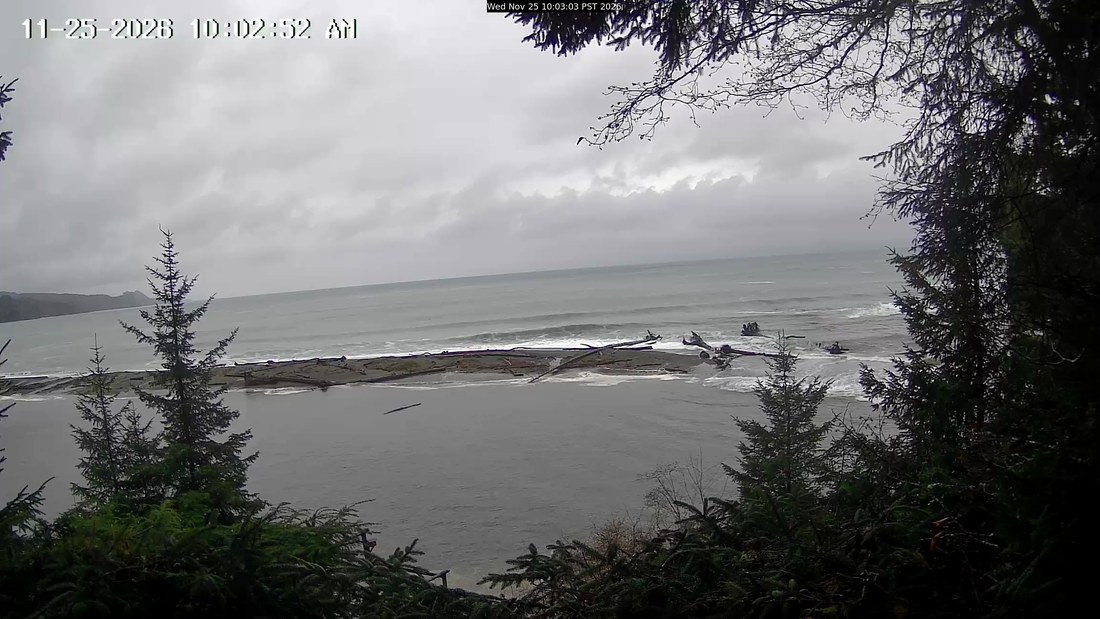
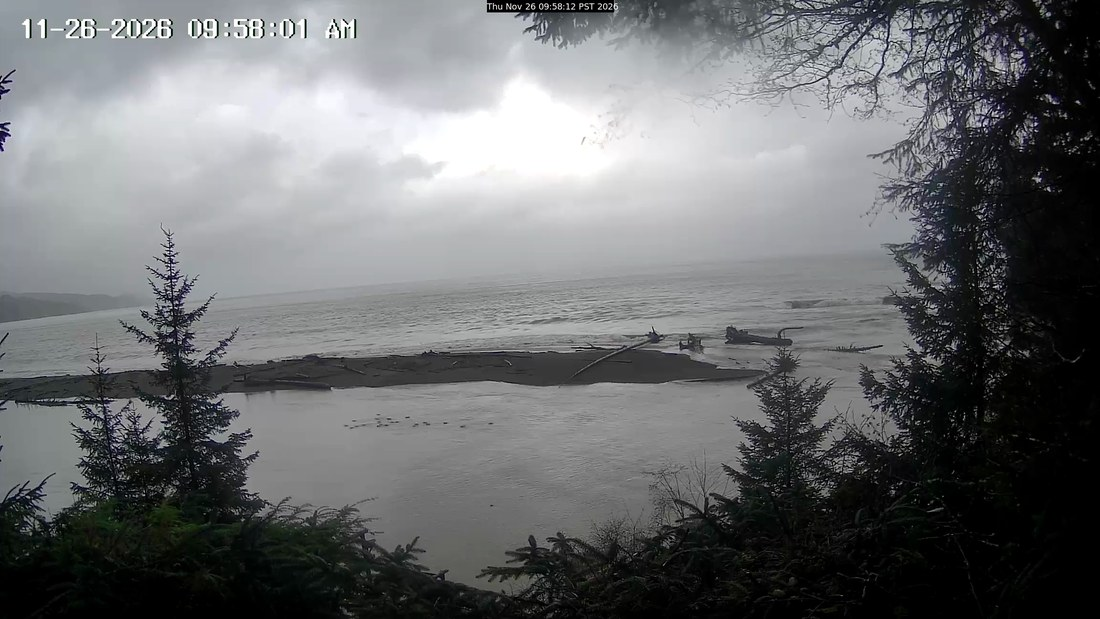
Cam capture 2026-11-26_1000

diff --git a/strait_cam.html b/strait_cam.html
@@ -1,1 +1,1 @@
-<!DOCTYPE html><html><head><meta charset='utf-8'><meta name='viewport' content='width=device-width, initial-scale=1'><title>The Strait cam</title><style>body{font-family:Georgia,serif;max-width:1200px;margin:0 auto;padding:24px}h1{margin:0 0 10px}.intro{color:#666;font-size:14px;margin:0 0 24px}.day-card{margin:0 0 30px}.day-card h3{margin:0 0 10px;font-size:22px}.time{color:#888;font-weight:400}.meta{color:#666;font-size:13px;font-weight:400}.frame-grid{display:grid;grid-template-columns:repeat(3,minmax(0,1fr));gap:10px}.frame-btn{background:#fff;border:1px solid #ddd;padding:0;cursor:pointer}.frame-img{display:block;width:100%;height:auto}.hint{font-size:12px;color:#666;margin-top:6px}.lightbox{position:fixed;inset:0;background:rgba(0,0,0,.92);display:none;align-items:center;justify-content:center;padding:20px;z-index:1000}.lightbox.open{display:flex}.lightbox img{max-width:100%;max-height:100%;object-fit:contain}.lightbox-close{position:absolute;top:14px;right:14px;font-size:28px;line-height:1;border:1px solid #fff;background:rgba(0,0,0,.35);color:#fff;padding:4px 12px;cursor:pointer}</style></head><body><h1>The Strait — cam review</h1><p class='intro'>Three morning frames per day (9/10/11am) from the Sekiu/Hoko cam — each is the most active of its ~5-min burst. Forward-only (no archive before we started). Click a thumbnail to expand.</p><section class='day-card'><h3>2026-11-26 <span class='meta'>Angeles Pt buoy 2.6ft @ 5s · verdict SKIP</span></h3><div class='frame-grid'><figure style='margin:0'><button type='button' class='frame-btn'><img src='cam/2026-11-26_0900_strait.jpg' class='frame-img' data-full='cam/2026-11-26_0900_strait.jpg' alt='Strait (Sekiu/Hoko) 2026-11-26 09:00'></button><figcaption class='small' style='text-align:center;color:#888'>09:00</figcaption></figure></div><div class='hint'>Most-active frame from each ~5-min burst (we keep the one with the most whitewater, since the strait is flat between sets). Sekiu/Hoko cam, W entrance ~40mi W of the spot — a read on swell &amp; wind arriving, not the break. Click any frame to enlarge.</div></section><section class='day-card'><h3>2026-11-25 <span class='meta'>Angeles Pt buoy 2.3ft @ 11s · verdict MAYBE</span></h3><div class='frame-grid'><figure style='margin:0'><button type='button' class='frame-btn'><img src='cam/2026-11-25_0900_strait.jpg' class='frame-img' data-full='cam/2026-11-25_0900_strait.jpg' alt='Strait (Sekiu/Hoko) 2026-11-25 09:00'></button><figcaption class='small' style='text-align:center;color:#888'>09:00</figcaption></figure><figure style='margin:0'><button type='button' class='frame-btn'><img src='cam/2026-11-25_1000_strait.jpg' class='frame-img' data-full='cam/2026-11-25_1000_strait.jpg' alt='Strait (Sekiu/Hoko) 2026-11-25 10:00'></button><figcaption class='small' style='text-align:center;color:#888'>10:00</figcaption></figure><figure style='margin:0'><button type='button' class='frame-btn'><img src='cam/2026-11-25_1100_strait.jpg' class='frame-img' data-full='cam/2026-11-25_1100_strait.jpg' alt='Strait (Sekiu/Hoko) 2026-11-25 11:00'></button><figcaption class='small' style='text-align:center;color:#888'>11:00</figcaption></figure></div><div class='hint'>Most-active frame from each ~5-min burst (we keep the one with the most whitewater, since the strait is flat between sets). Sekiu/Hoko cam, W entrance ~40mi W of the spot — a read on swell &amp; wind arriving, not the break. Click any frame to enlarge.</div></section><section class='day-card'><h3>2026-11-24 <span class='meta'>Angeles Pt buoy 4.9ft @ 7s · verdict SKIP</span></h3><div class='frame-grid'><figure style='margin:0'><button type='button' class='frame-btn'><img src='cam/2026-11-24_0900_strait.jpg' class='frame-img' data-full='cam/2026-11-24_0900_strait.jpg' alt='Strait (Sekiu/Hoko) 2026-11-24 09:00'></button><figcaption class='small' style='text-align:center;color:#888'>09:00</figcaption></figure><figure style='margin:0'><button type='button' class='frame-btn'><img src='cam/2026-11-24_1000_strait.jpg' class='frame-img' data-full='cam/2026-11-24_1000_strait.jpg' alt='Strait (Sekiu/Hoko) 2026-11-24 10:00'></button><figcaption class='small' style='text-align:center;color:#888'>10:00</figcaption></figure><figure style='margin:0'><button type='button' class='frame-btn'><img src='cam/2026-11-24_1100_strait.jpg' class='frame-img' data-full='cam/2026-11-24_1100_strait.jpg' alt='Strait (Sekiu/Hoko) 2026-11-24 11:00'></button><figcaption class='small' style='text-align:center;color:#888'>11:00</figcaption></figure></div><div class='hint'>Most-active frame from each ~5-min burst (we keep the one with the most whitewater, since the strait is flat between sets). Sekiu/Hoko cam, W entrance ~40mi W of the spot — a read on swell &amp; wind arriving, not the break. Click any frame to enlarge.</div></section><section class='day-card'><h3>2026-11-23 <span class='meta'>Angeles Pt buoy 2.6ft @ 5s · verdict SKIP</span></h3><div class='frame-grid'><figure style='margin:0'><button type='button' class='frame-btn'><img src='cam/2026-11-23_0900_strait.jpg' class='frame-img' data-full='cam/2026-11-23_0900_strait.jpg' alt='Strait (Sekiu/Hoko) 2026-11-23 09:00'></button><figcaption class='small' style='text-align:center;color:#888'>09:00</figcaption></figure><figure style='margin:0'><button type='button' class='frame-btn'><img src='cam/2026-11-23_1000_strait.jpg' class='frame-img' data-full='cam/2026-11-23_1000_strait.jpg' alt='Strait (Sekiu/Hoko) 2026-11-23 10:00'></button><figcaption class='small' style='text-align:center;color:#888'>10:00</figcaption></figure><figure style='margin:0'><button type='button' class='frame-btn'><img src='cam/2026-11-23_1100_strait.jpg' class='frame-img' data-full='cam/2026-11-23_1100_strait.jpg' alt='Strait (Sekiu/Hoko) 2026-11-23 11:00'></button><figcaption class='small' style='text-align:center;color:#888'>11:00</figcaption></figure></div><div class='hint'>Most-active frame from each ~5-min burst (we keep the one with the most whitewater, since the strait is flat between sets). Sekiu/Hoko cam, W entrance ~40mi W of the spot — a read on swell &amp; wind arriving, not the break. Click any frame to enlarge.</div></section><section class='day-card'><h3>2026-11-22 <span class='meta'>Angeles Pt buoy 2.0ft @ 5s · verdict MAYBE</span></h3><div class='frame-grid'><figure style='margin:0'><button type='button' class='frame-btn'><img src='cam/2026-11-22_0900_strait.jpg' class='frame-img' data-full='cam/2026-11-22_0900_strait.jpg' alt='Strait (Sekiu/Hoko) 2026-11-22 09:00'></button><figcaption class='small' style='text-align:center;color:#888'>09:00</figcaption></figure><figure style='margin:0'><button type='button' class='frame-btn'><img src='cam/2026-11-22_1000_strait.jpg' class='frame-img' data-full='cam/2026-11-22_1000_strait.jpg' alt='Strait (Sekiu/Hoko) 2026-11-22 10:00'></button><figcaption class='small' style='text-align:center;color:#888'>10:00</figcaption></figure><figure style='margin:0'><button type='button' class='frame-btn'><img src='cam/2026-11-22_1100_strait.jpg' class='frame-img' data-full='cam/2026-11-22_1100_strait.jpg' alt='Strait (Sekiu/Hoko) 2026-11-22 11:00'></button><figcaption class='small' style='text-align:center;color:#888'>11:00</figcaption></figure></div><div class='hint'>Most-active frame from each ~5-min burst (we keep the one with the most whitewater, since the strait is flat between sets). Sekiu/Hoko cam, W entrance ~40mi W of the spot — a read on swell &amp; wind arriving, not the break. Click any frame to enlarge.</div></section><section class='day-card'><h3>2026-11-21 <span class='meta'>Angeles Pt buoy 2.6ft @ 4s · verdict MAYBE</span></h3><div class='frame-grid'><figure style='margin:0'><button type='button' class='frame-btn'><img src='cam/2026-11-21_0900_strait.jpg' class='frame-img' data-full='cam/2026-11-21_0900_strait.jpg' alt='Strait (Sekiu/Hoko) 2026-11-21 09:00'></button><figcaption class='small' style='text-align:center;color:#888'>09:00</figcaption></figure><figure style='margin:0'><button type='button' class='frame-btn'><img src='cam/2026-11-21_1000_strait.jpg' class='frame-img' data-full='cam/2026-11-21_1000_strait.jpg' alt='Strait (Sekiu/Hoko) 2026-11-21 10:00'></button><figcaption class='small' style='text-align:center;color:#888'>10:00</figcaption></figure><figure style='margin:0'><button type='button' class='frame-btn'><img src='cam/2026-11-21_1100_strait.jpg' class='frame-img' data-full='cam/2026-11-21_1100_strait.jpg' alt='Strait (Sekiu/Hoko) 2026-11-21 11:00'></button><figcaption class='small' style='text-align:center;color:#888'>11:00</figcaption></figure></div><div class='hint'>Most-active frame from each ~5-min burst (we keep the one with the most whitewater, since the strait is flat between sets). Sekiu/Hoko cam, W entrance ~40mi W of the spot — a read on swell &amp; wind arriving, not the break. Click any frame to enlarge.</div></section><section class='day-card'><h3>2026-11-20 <span class='meta'>Angeles Pt buoy 2.6ft @ 11s · verdict SKIP</span></h3><div class='frame-grid'><figure style='margin:0'><button type='button' class='frame-btn'><img src='cam/2026-11-20_0900_strait.jpg' class='frame-img' data-full='cam/2026-11-20_0900_strait.jpg' alt='Strait (Sekiu/Hoko) 2026-11-20 09:00'></button><figcaption class='small' style='text-align:center;color:#888'>09:00</figcaption></figure><figure style='margin:0'><button type='button' class='frame-btn'><img src='cam/2026-11-20_1000_strait.jpg' class='frame-img' data-full='cam/2026-11-20_1000_strait.jpg' alt='Strait (Sekiu/Hoko) 2026-11-20 10:00'></button><figcaption class='small' style='text-align:center;color:#888'>10:00</figcaption></figure><figure style='margin:0'><button type='button' class='frame-btn'><img src='cam/2026-11-20_1100_strait.jpg' class='frame-img' data-full='cam/2026-11-20_1100_strait.jpg' alt='Strait (Sekiu/Hoko) 2026-11-20 11:00'></button><figcaption class='small' style='text-align:center;color:#888'>11:00</figcaption></figure></div><div class='hint'>Most-active frame from each ~5-min burst (we keep the one with the most whitewater, since the strait is flat between sets). Sekiu/Hoko cam, W entrance ~40mi W of the spot — a read on swell &amp; wind arriving, not the break. Click any frame to enlarge.</div></section><section class='day-card'><h3>2026-11-19 <span class='meta'>Angeles Pt buoy 3.0ft @ 13s · verdict GO</span></h3><div class='frame-grid'><figure style='margin:0'><button type='button' class='frame-btn'><img src='cam/2026-11-19_0900_strait.jpg' class='frame-img' data-full='cam/2026-11-19_0900_strait.jpg' alt='Strait (Sekiu/Hoko) 2026-11-19 09:00'></button><figcaption class='small' style='text-align:center;color:#888'>09:00</figcaption></figure><figure style='margin:0'><button type='button' class='frame-btn'><img src='cam/2026-11-19_1000_strait.jpg' class='frame-img' data-full='cam/2026-11-19_1000_strait.jpg' alt='Strait (Sekiu/Hoko) 2026-11-19 10:00'></button><figcaption class='small' style='text-align:center;color:#888'>10:00</figcaption></figure><figure style='margin:0'><button type='button' class='frame-btn'><img src='cam/2026-11-19_1100_strait.jpg' class='frame-img' data-full='cam/2026-11-19_1100_strait.jpg' alt='Strait (Sekiu/Hoko) 2026-11-19 11:00'></button><figcaption class='small' style='text-align:center;color:#888'>11:00</figcaption></figure></div><div class='hint'>Most-active frame from each ~5-min burst (we keep the one with the most whitewater, since the strait is flat between sets). Sekiu/Hoko cam, W entrance ~40mi W of the spot — a read on swell &amp; wind arriving, not the break. Click any frame to enlarge.</div></section><div id='lightbox' class='lightbox' aria-hidden='true'><button id='lightbox-close' class='lightbox-close' aria-label='Close image view'>&times;</button><img id='lightbox-image' alt='Selected frame'></div><script>const lightbox=document.getElementById('lightbox');const lightboxImg=document.getElementById('lightbox-image');const closeBtn=document.getElementById('lightbox-close');document.querySelectorAll('.frame-img').forEach((img)=>{img.addEventListener('click',()=>{lightboxImg.src=img.dataset.full||img.src;lightbox.classList.add('open');lightbox.setAttribute('aria-hidden','false');});});function closeLightbox(){lightbox.classList.remove('open');lightbox.setAttribute('aria-hidden','true');lightboxImg.src='';}closeBtn.addEventListener('click',closeLightbox);lightbox.addEventListener('click',(e)=>{if(e.target===lightbox){closeLightbox();}});document.addEventListener('keydown',(e)=>{if(e.key==='Escape'&&lightbox.classList.contains('open')){closeLightbox();}});</script></body></html>
+<!DOCTYPE html><html><head><meta charset='utf-8'><meta name='viewport' content='width=device-width, initial-scale=1'><title>The Strait cam</title><style>body{font-family:Georgia,serif;max-width:1200px;margin:0 auto;padding:24px}h1{margin:0 0 10px}.intro{color:#666;font-size:14px;margin:0 0 24px}.day-card{margin:0 0 30px}.day-card h3{margin:0 0 10px;font-size:22px}.time{color:#888;font-weight:400}.meta{color:#666;font-size:13px;font-weight:400}.frame-grid{display:grid;grid-template-columns:repeat(3,minmax(0,1fr));gap:10px}.frame-btn{background:#fff;border:1px solid #ddd;padding:0;cursor:pointer}.frame-img{display:block;width:100%;height:auto}.hint{font-size:12px;color:#666;margin-top:6px}.lightbox{position:fixed;inset:0;background:rgba(0,0,0,.92);display:none;align-items:center;justify-content:center;padding:20px;z-index:1000}.lightbox.open{display:flex}.lightbox img{max-width:100%;max-height:100%;object-fit:contain}.lightbox-close{position:absolute;top:14px;right:14px;font-size:28px;line-height:1;border:1px solid #fff;background:rgba(0,0,0,.35);color:#fff;padding:4px 12px;cursor:pointer}</style></head><body><h1>The Strait — cam review</h1><p class='intro'>Three morning frames per day (9/10/11am) from the Sekiu/Hoko cam — each is the most active of its ~5-min burst. Forward-only (no archive before we started). Click a thumbnail to expand.</p><section class='day-card'><h3>2026-11-26 <span class='meta'>Angeles Pt buoy 2.6ft @ 5s · verdict SKIP</span></h3><div class='frame-grid'><figure style='margin:0'><button type='button' class='frame-btn'><img src='cam/2026-11-26_0900_strait.jpg' class='frame-img' data-full='cam/2026-11-26_0900_strait.jpg' alt='Strait (Sekiu/Hoko) 2026-11-26 09:00'></button><figcaption class='small' style='text-align:center;color:#888'>09:00</figcaption></figure><figure style='margin:0'><button type='button' class='frame-btn'><img src='cam/2026-11-26_1000_strait.jpg' class='frame-img' data-full='cam/2026-11-26_1000_strait.jpg' alt='Strait (Sekiu/Hoko) 2026-11-26 10:00'></button><figcaption class='small' style='text-align:center;color:#888'>10:00</figcaption></figure></div><div class='hint'>Most-active frame from each ~5-min burst (we keep the one with the most whitewater, since the strait is flat between sets). Sekiu/Hoko cam, W entrance ~40mi W of the spot — a read on swell &amp; wind arriving, not the break. Click any frame to enlarge.</div></section><section class='day-card'><h3>2026-11-25 <span class='meta'>Angeles Pt buoy 2.3ft @ 11s · verdict MAYBE</span></h3><div class='frame-grid'><figure style='margin:0'><button type='button' class='frame-btn'><img src='cam/2026-11-25_0900_strait.jpg' class='frame-img' data-full='cam/2026-11-25_0900_strait.jpg' alt='Strait (Sekiu/Hoko) 2026-11-25 09:00'></button><figcaption class='small' style='text-align:center;color:#888'>09:00</figcaption></figure><figure style='margin:0'><button type='button' class='frame-btn'><img src='cam/2026-11-25_1000_strait.jpg' class='frame-img' data-full='cam/2026-11-25_1000_strait.jpg' alt='Strait (Sekiu/Hoko) 2026-11-25 10:00'></button><figcaption class='small' style='text-align:center;color:#888'>10:00</figcaption></figure><figure style='margin:0'><button type='button' class='frame-btn'><img src='cam/2026-11-25_1100_strait.jpg' class='frame-img' data-full='cam/2026-11-25_1100_strait.jpg' alt='Strait (Sekiu/Hoko) 2026-11-25 11:00'></button><figcaption class='small' style='text-align:center;color:#888'>11:00</figcaption></figure></div><div class='hint'>Most-active frame from each ~5-min burst (we keep the one with the most whitewater, since the strait is flat between sets). Sekiu/Hoko cam, W entrance ~40mi W of the spot — a read on swell &amp; wind arriving, not the break. Click any frame to enlarge.</div></section><section class='day-card'><h3>2026-11-24 <span class='meta'>Angeles Pt buoy 4.9ft @ 7s · verdict SKIP</span></h3><div class='frame-grid'><figure style='margin:0'><button type='button' class='frame-btn'><img src='cam/2026-11-24_0900_strait.jpg' class='frame-img' data-full='cam/2026-11-24_0900_strait.jpg' alt='Strait (Sekiu/Hoko) 2026-11-24 09:00'></button><figcaption class='small' style='text-align:center;color:#888'>09:00</figcaption></figure><figure style='margin:0'><button type='button' class='frame-btn'><img src='cam/2026-11-24_1000_strait.jpg' class='frame-img' data-full='cam/2026-11-24_1000_strait.jpg' alt='Strait (Sekiu/Hoko) 2026-11-24 10:00'></button><figcaption class='small' style='text-align:center;color:#888'>10:00</figcaption></figure><figure style='margin:0'><button type='button' class='frame-btn'><img src='cam/2026-11-24_1100_strait.jpg' class='frame-img' data-full='cam/2026-11-24_1100_strait.jpg' alt='Strait (Sekiu/Hoko) 2026-11-24 11:00'></button><figcaption class='small' style='text-align:center;color:#888'>11:00</figcaption></figure></div><div class='hint'>Most-active frame from each ~5-min burst (we keep the one with the most whitewater, since the strait is flat between sets). Sekiu/Hoko cam, W entrance ~40mi W of the spot — a read on swell &amp; wind arriving, not the break. Click any frame to enlarge.</div></section><section class='day-card'><h3>2026-11-23 <span class='meta'>Angeles Pt buoy 2.6ft @ 5s · verdict SKIP</span></h3><div class='frame-grid'><figure style='margin:0'><button type='button' class='frame-btn'><img src='cam/2026-11-23_0900_strait.jpg' class='frame-img' data-full='cam/2026-11-23_0900_strait.jpg' alt='Strait (Sekiu/Hoko) 2026-11-23 09:00'></button><figcaption class='small' style='text-align:center;color:#888'>09:00</figcaption></figure><figure style='margin:0'><button type='button' class='frame-btn'><img src='cam/2026-11-23_1000_strait.jpg' class='frame-img' data-full='cam/2026-11-23_1000_strait.jpg' alt='Strait (Sekiu/Hoko) 2026-11-23 10:00'></button><figcaption class='small' style='text-align:center;color:#888'>10:00</figcaption></figure><figure style='margin:0'><button type='button' class='frame-btn'><img src='cam/2026-11-23_1100_strait.jpg' class='frame-img' data-full='cam/2026-11-23_1100_strait.jpg' alt='Strait (Sekiu/Hoko) 2026-11-23 11:00'></button><figcaption class='small' style='text-align:center;color:#888'>11:00</figcaption></figure></div><div class='hint'>Most-active frame from each ~5-min burst (we keep the one with the most whitewater, since the strait is flat between sets). Sekiu/Hoko cam, W entrance ~40mi W of the spot — a read on swell &amp; wind arriving, not the break. Click any frame to enlarge.</div></section><section class='day-card'><h3>2026-11-22 <span class='meta'>Angeles Pt buoy 2.0ft @ 5s · verdict MAYBE</span></h3><div class='frame-grid'><figure style='margin:0'><button type='button' class='frame-btn'><img src='cam/2026-11-22_0900_strait.jpg' class='frame-img' data-full='cam/2026-11-22_0900_strait.jpg' alt='Strait (Sekiu/Hoko) 2026-11-22 09:00'></button><figcaption class='small' style='text-align:center;color:#888'>09:00</figcaption></figure><figure style='margin:0'><button type='button' class='frame-btn'><img src='cam/2026-11-22_1000_strait.jpg' class='frame-img' data-full='cam/2026-11-22_1000_strait.jpg' alt='Strait (Sekiu/Hoko) 2026-11-22 10:00'></button><figcaption class='small' style='text-align:center;color:#888'>10:00</figcaption></figure><figure style='margin:0'><button type='button' class='frame-btn'><img src='cam/2026-11-22_1100_strait.jpg' class='frame-img' data-full='cam/2026-11-22_1100_strait.jpg' alt='Strait (Sekiu/Hoko) 2026-11-22 11:00'></button><figcaption class='small' style='text-align:center;color:#888'>11:00</figcaption></figure></div><div class='hint'>Most-active frame from each ~5-min burst (we keep the one with the most whitewater, since the strait is flat between sets). Sekiu/Hoko cam, W entrance ~40mi W of the spot — a read on swell &amp; wind arriving, not the break. Click any frame to enlarge.</div></section><section class='day-card'><h3>2026-11-21 <span class='meta'>Angeles Pt buoy 2.6ft @ 4s · verdict MAYBE</span></h3><div class='frame-grid'><figure style='margin:0'><button type='button' class='frame-btn'><img src='cam/2026-11-21_0900_strait.jpg' class='frame-img' data-full='cam/2026-11-21_0900_strait.jpg' alt='Strait (Sekiu/Hoko) 2026-11-21 09:00'></button><figcaption class='small' style='text-align:center;color:#888'>09:00</figcaption></figure><figure style='margin:0'><button type='button' class='frame-btn'><img src='cam/2026-11-21_1000_strait.jpg' class='frame-img' data-full='cam/2026-11-21_1000_strait.jpg' alt='Strait (Sekiu/Hoko) 2026-11-21 10:00'></button><figcaption class='small' style='text-align:center;color:#888'>10:00</figcaption></figure><figure style='margin:0'><button type='button' class='frame-btn'><img src='cam/2026-11-21_1100_strait.jpg' class='frame-img' data-full='cam/2026-11-21_1100_strait.jpg' alt='Strait (Sekiu/Hoko) 2026-11-21 11:00'></button><figcaption class='small' style='text-align:center;color:#888'>11:00</figcaption></figure></div><div class='hint'>Most-active frame from each ~5-min burst (we keep the one with the most whitewater, since the strait is flat between sets). Sekiu/Hoko cam, W entrance ~40mi W of the spot — a read on swell &amp; wind arriving, not the break. Click any frame to enlarge.</div></section><section class='day-card'><h3>2026-11-20 <span class='meta'>Angeles Pt buoy 2.6ft @ 11s · verdict SKIP</span></h3><div class='frame-grid'><figure style='margin:0'><button type='button' class='frame-btn'><img src='cam/2026-11-20_0900_strait.jpg' class='frame-img' data-full='cam/2026-11-20_0900_strait.jpg' alt='Strait (Sekiu/Hoko) 2026-11-20 09:00'></button><figcaption class='small' style='text-align:center;color:#888'>09:00</figcaption></figure><figure style='margin:0'><button type='button' class='frame-btn'><img src='cam/2026-11-20_1000_strait.jpg' class='frame-img' data-full='cam/2026-11-20_1000_strait.jpg' alt='Strait (Sekiu/Hoko) 2026-11-20 10:00'></button><figcaption class='small' style='text-align:center;color:#888'>10:00</figcaption></figure><figure style='margin:0'><button type='button' class='frame-btn'><img src='cam/2026-11-20_1100_strait.jpg' class='frame-img' data-full='cam/2026-11-20_1100_strait.jpg' alt='Strait (Sekiu/Hoko) 2026-11-20 11:00'></button><figcaption class='small' style='text-align:center;color:#888'>11:00</figcaption></figure></div><div class='hint'>Most-active frame from each ~5-min burst (we keep the one with the most whitewater, since the strait is flat between sets). Sekiu/Hoko cam, W entrance ~40mi W of the spot — a read on swell &amp; wind arriving, not the break. Click any frame to enlarge.</div></section><section class='day-card'><h3>2026-11-19 <span class='meta'>Angeles Pt buoy 3.0ft @ 13s · verdict GO</span></h3><div class='frame-grid'><figure style='margin:0'><button type='button' class='frame-btn'><img src='cam/2026-11-19_0900_strait.jpg' class='frame-img' data-full='cam/2026-11-19_0900_strait.jpg' alt='Strait (Sekiu/Hoko) 2026-11-19 09:00'></button><figcaption class='small' style='text-align:center;color:#888'>09:00</figcaption></figure><figure style='margin:0'><button type='button' class='frame-btn'><img src='cam/2026-11-19_1000_strait.jpg' class='frame-img' data-full='cam/2026-11-19_1000_strait.jpg' alt='Strait (Sekiu/Hoko) 2026-11-19 10:00'></button><figcaption class='small' style='text-align:center;color:#888'>10:00</figcaption></figure><figure style='margin:0'><button type='button' class='frame-btn'><img src='cam/2026-11-19_1100_strait.jpg' class='frame-img' data-full='cam/2026-11-19_1100_strait.jpg' alt='Strait (Sekiu/Hoko) 2026-11-19 11:00'></button><figcaption class='small' style='text-align:center;color:#888'>11:00</figcaption></figure></div><div class='hint'>Most-active frame from each ~5-min burst (we keep the one with the most whitewater, since the strait is flat between sets). Sekiu/Hoko cam, W entrance ~40mi W of the spot — a read on swell &amp; wind arriving, not the break. Click any frame to enlarge.</div></section><div id='lightbox' class='lightbox' aria-hidden='true'><button id='lightbox-close' class='lightbox-close' aria-label='Close image view'>&times;</button><img id='lightbox-image' alt='Selected frame'></div><script>const lightbox=document.getElementById('lightbox');const lightboxImg=document.getElementById('lightbox-image');const closeBtn=document.getElementById('lightbox-close');document.querySelectorAll('.frame-img').forEach((img)=>{img.addEventListener('click',()=>{lightboxImg.src=img.dataset.full||img.src;lightbox.classList.add('open');lightbox.setAttribute('aria-hidden','false');});});function closeLightbox(){lightbox.classList.remove('open');lightbox.setAttribute('aria-hidden','true');lightboxImg.src='';}closeBtn.addEventListener('click',closeLightbox);lightbox.addEventListener('click',(e)=>{if(e.target===lightbox){closeLightbox();}});document.addEventListener('keydown',(e)=>{if(e.key==='Escape'&&lightbox.classList.contains('open')){closeLightbox();}});</script></body></html>
